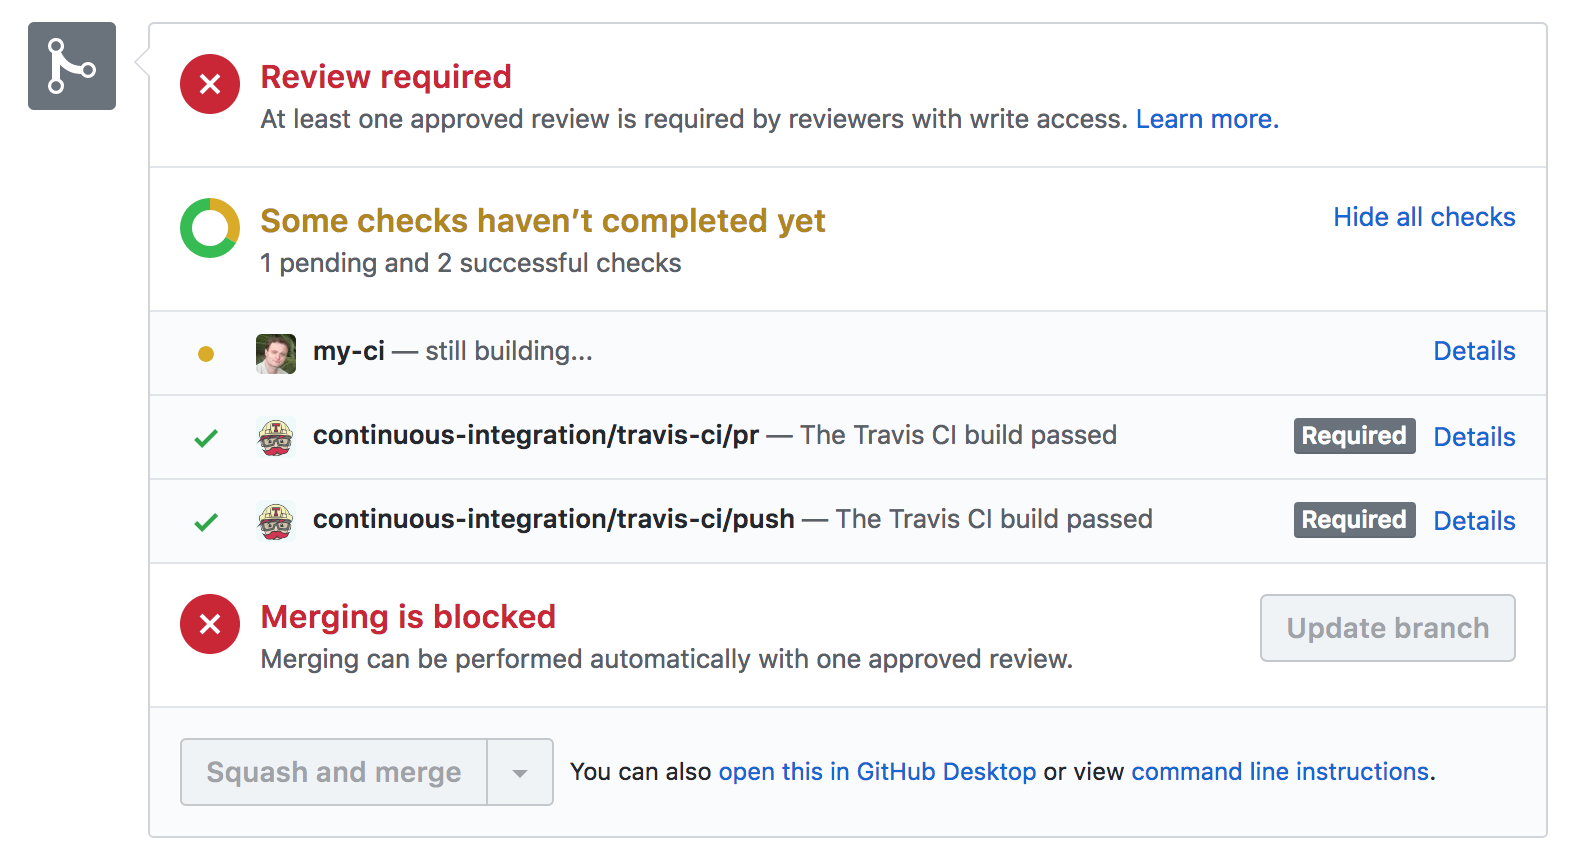
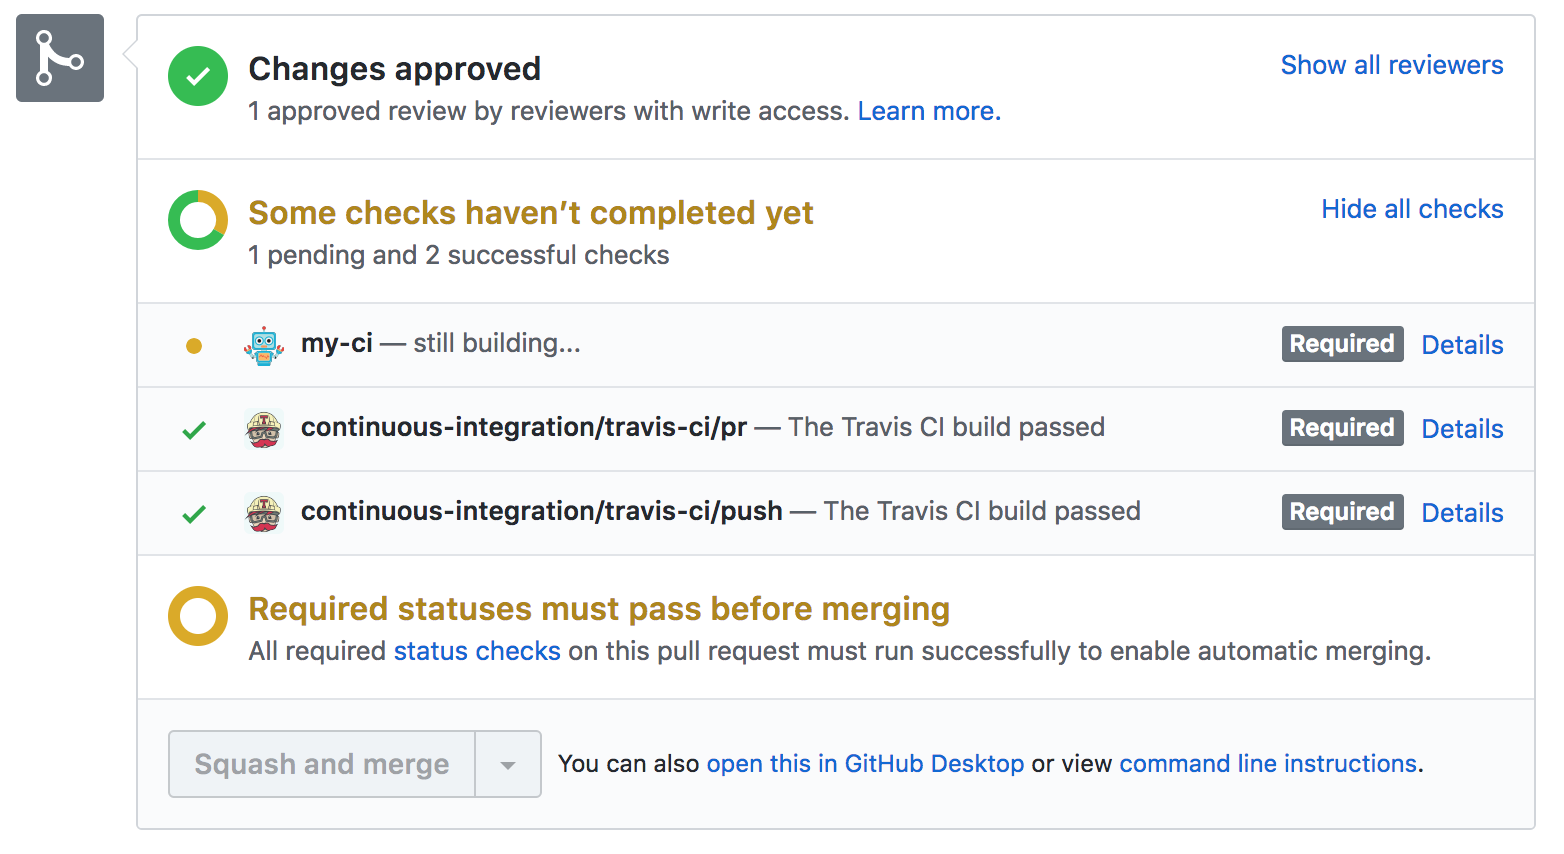
Update `README` and images

diff --git a/README.md b/README.md
@@ -13,7 +13,7 @@ Command line utility for updating GitHub commit statuses and enabling required s
 
 Useful for CI environments to set more specific commit and build statuses, including setting the target URL (the URL of the page representing the status).
 
-__NOTE__: Create a [GitHub token](https://help.github.com/articles/creating-an-access-token-for-command-line-use/) with `repo:status` scope
+__NOTE__: Create a [GitHub token](https://help.github.com/articles/creating-an-access-token-for-command-line-use/) with `repo:status` and `public_repo` scopes
 
 __NOTE__: The icons in the image above are the avatars of the users for which the GitHub access tokens are issued
 
@@ -159,14 +159,21 @@ docker run -i --rm --env-file ./example.env github-status-updater
 ## GitHub Required Status Checks
 
 
-The module can be used to enable and update required status checks in Pull Requests.
-
-* https://help.github.com/articles/enabling-required-status-checks
+The module can be used to update required status checks for Pull Requests.
 
 This is useful for CI environments to set build statuses with URLs to the build pages.
 
+First, repository administrators need to enforce the branch protection and required status checks before a branch is merged in a pull request or before commits on a local branch can be pushed to the protected remote branch.
 
-To enable status checks for branch `test` of the `github-status-updater` repo, execute the `update_branch_protection` action locally
+* https://help.github.com/articles/enabling-required-status-checks
+
+
+![GitHub Branch Protection Settings](images/github-branch-protection-settings.png)
+
+
+
+
+Then, to add `my-ci` as a status check for branch `test` of the `github-status-updater` repo, execute the `update_branch_protection` action locally
 
 ```ssh
 ./dist/bin/github-status-updater \
@@ -196,11 +203,11 @@ docker run -i --rm \
 After the command executes, status check `my-ci` will be enabled for the branch as shown in the image below
 
 ###
-![GitHub Branch Protection Settings](images/github-branch-protection-settings.png)
+![GitHub Branch Protection Settings](images/github-branch-protection-update.png)
 ###
 
 
-When you create a Pull Request for the branch, `my-ci` gets a notification from GitHub, starts the build, and updates the build status to `pending`
+When you create a pull request for the branch, `my-ci` gets a notification from GitHub, starts the build, and updates the build status to `pending`
 by executing the following command to update the status of the last commit (`ref XXXXXXXXXXXXXXX`)
 
 ```sh
